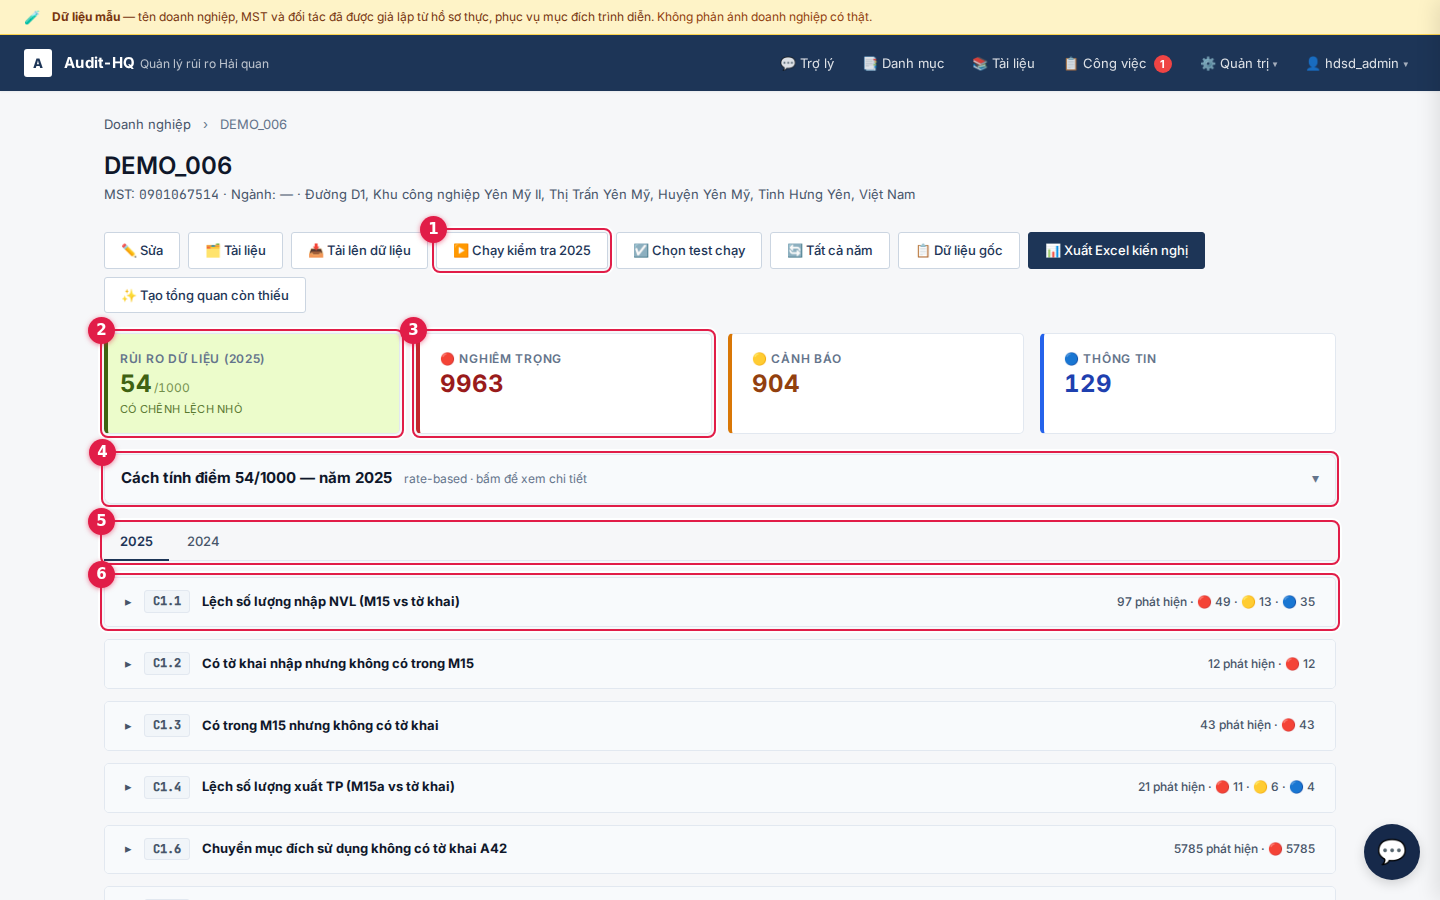
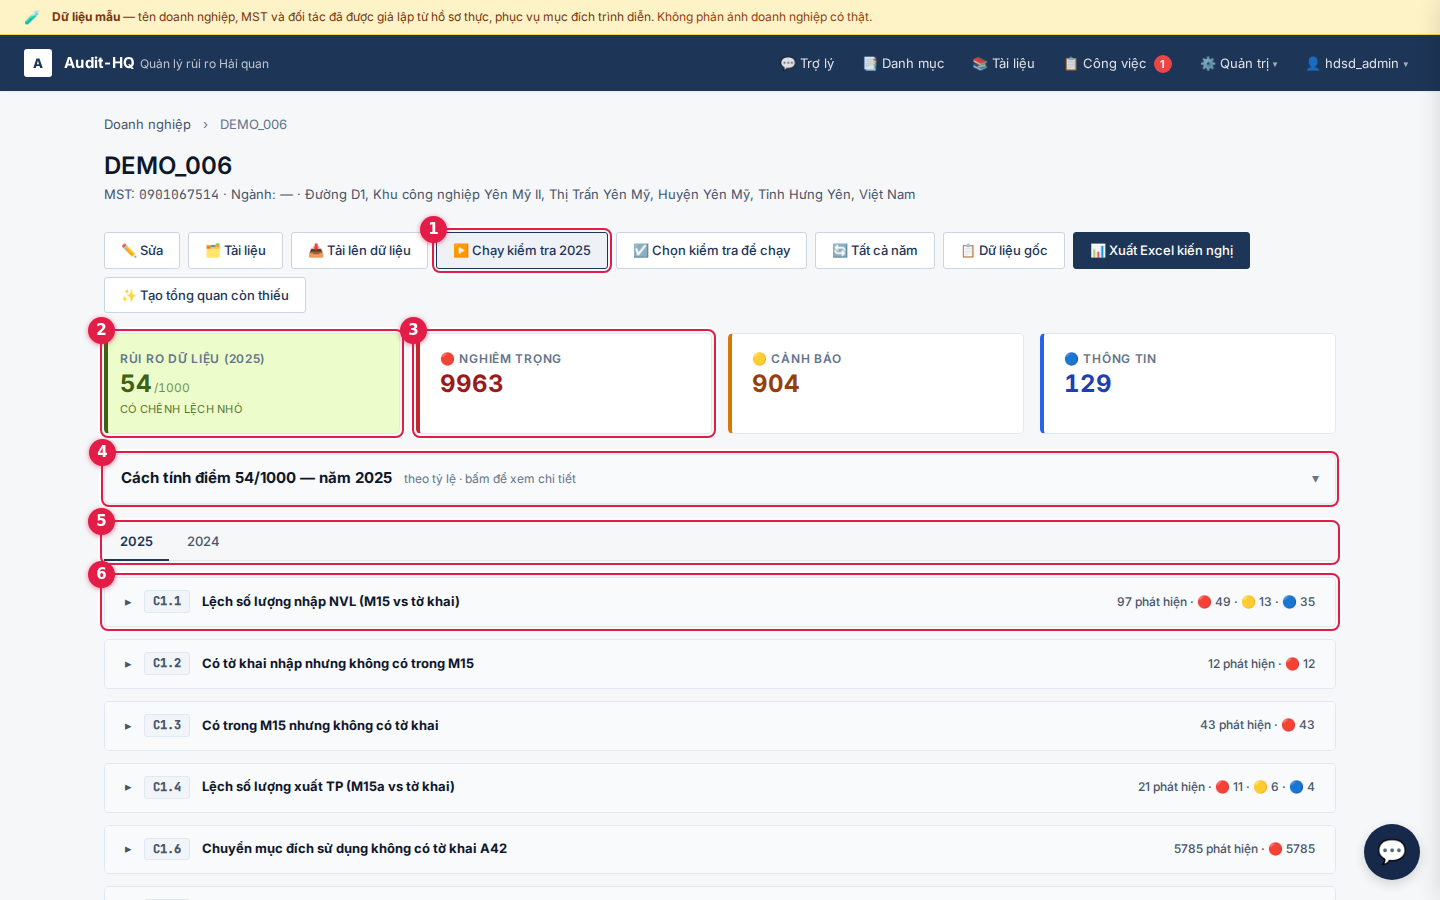
docs(guide): refresh screenshots and labels for the wording pass in #43
The manual branched off 648d6d5, before #43 landed on main, so its screenshots
and five quoted labels showed the old wording:

  Chọn test chạy        → Chọn kiểm tra để chạy
  Xuất test này         → Xuất kiểm tra này
  Cần đối chiếu số liệu → Có số không khớp bảng
  rate-based            → theo tỷ lệ

Re-captured all 36 screenshots against merged main and corrected the text.
Checked the other 28 labels the manual quotes — all still present on main.

Changed region(s): [[0.4688, 0.2489, 0.875, 0.3111], [0.2812, 0.5289, 0.4062, 0.56]]

diff --git a/app/static/docs/huong-dan/index.html b/app/static/docs/huong-dan/index.html
@@ -504,14 +504,14 @@
             <li>Tick các <strong>bài kiểm tra</strong> cần chạy. Cả hàng đều bấm được.</li>
             <li>Bấm nút chạy. Không tick bài nào thì <strong>chạy tất cả</strong>.</li>
           </ol></div>
-          <figure><span class="fig-tag">Chọn bài kiểm tra để chạy</span><img src="15-chon-test-de-chay.png" alt="Hộp thoại chọn bài kiểm tra"><figcaption>Mở bằng nút <b>☑ Chọn test chạy</b> trên hồ sơ doanh nghiệp.</figcaption></figure>
+          <figure><span class="fig-tag">Chọn bài kiểm tra để chạy</span><img src="15-chon-test-de-chay.png" alt="Hộp thoại chọn bài kiểm tra"><figcaption>Mở bằng nút <b>☑ Chọn kiểm tra để chạy</b> trên hồ sơ doanh nghiệp.</figcaption></figure>
         </div>
         <div class="tblwrap"><table class="tb">
           <thead><tr><th>Muốn chạy</th><th>Bấm nút</th></tr></thead>
           <tbody>
             <tr><td>Toàn bộ bài kiểm tra cho kỳ đang xem</td><td><b>▶ Chạy kiểm tra &lt;năm&gt;</b> trên hồ sơ doanh nghiệp</td></tr>
             <tr><td>Toàn bộ cho mọi kỳ có dữ liệu</td><td><b>🔄 Tất cả năm</b></td></tr>
-            <tr><td>Một số bài chọn trước</td><td><b>☑ Chọn test chạy</b></td></tr>
+            <tr><td>Một số bài chọn trước</td><td><b>☑ Chọn kiểm tra để chạy</b></td></tr>
             <tr><td>Đúng một bài</td><td><b>▶ Chạy lại &lt;mã bài&gt;</b> trong nhóm phát hiện của bài đó</td></tr>
           </tbody>
         </table></div>
@@ -560,7 +560,7 @@
         <div class="guide-head"><span class="gid">D1</span><h3>Hồ sơ doanh nghiệp</h3></div>
         <div class="guide-body">
           <div class="steps"><ol>
-            <li><strong>▶ Chạy kiểm tra &lt;năm&gt;</strong> — cùng thanh còn có Sửa, Tài liệu, Tải lên, Chọn test chạy, Tất cả năm, Dữ liệu gốc, Xuất Excel kiến nghị, Tạo tổng quan còn thiếu.</li>
+            <li><strong>▶ Chạy kiểm tra &lt;năm&gt;</strong> — cùng thanh còn có Sửa, Tài liệu, Tải lên, Chọn kiểm tra để chạy, Tất cả năm, Dữ liệu gốc, Xuất Excel kiến nghị, Tạo tổng quan còn thiếu.</li>
             <li><strong>Điểm rủi ro dữ liệu</strong> của kỳ đang chọn, kèm mức cảnh báo.</li>
             <li><strong>Số phát hiện theo mức độ</strong> — nghiêm trọng, cảnh báo, thông tin.</li>
             <li><strong>Khối cách tính điểm</strong> — bấm để mở chi tiết (mục D2).</li>
@@ -582,7 +582,7 @@
         <div class="note info"><svg class="ni"><use href="#i-info"/></svg><div>Quản trị viên chỉnh được các ngưỡng này (mục H3). Ngưỡng chỉ đổi cách <b>xếp mức</b>, không đổi <b>điểm</b>.</div></div>
       </article>
 
-      <article class="guide" id="d2" data-t="D2 cách tính điểm rate-based công thức kịch khung quy mô dữ liệu mẫu số">
+      <article class="guide" id="d2" data-t="D2 cách tính điểm theo tỷ lệ công thức kịch khung quy mô dữ liệu mẫu số">
         <div class="guide-head"><span class="gid">D2</span><h3>Cách tính điểm rủi ro</h3></div>
         <div class="guide-body">
           <div class="steps"><ol>
@@ -600,7 +600,7 @@
         <div class="guide-body">
           <div class="steps"><ol>
             <li><strong>Số phát hiện của nhóm</strong>, tách theo ba mức độ.</li>
-            <li><strong>▶ Chạy lại</strong> đúng bài kiểm tra này. Bên cạnh là <strong>📊 Xuất test này</strong> và <strong>✨ Tạo tổng quan</strong>.</li>
+            <li><strong>▶ Chạy lại</strong> đúng bài kiểm tra này. Bên cạnh là <strong>📊 Xuất kiểm tra này</strong> và <strong>✨ Tạo tổng quan</strong>.</li>
             <li><strong>Mã đối tượng</strong> — bấm để mở trang chi tiết mã hàng (mục E3).</li>
             <li><strong>Đổi trạng thái nhanh</strong> ngay tại bảng, không cần mở trang chi tiết.</li>
             <li><strong>Chi tiết →</strong> mở trang phát hiện kèm chứng cứ truy nguồn (mục E1).</li>
@@ -634,7 +634,7 @@
           <thead><tr><th>Nhãn</th><th>Nghĩa là</th><th>Cần làm gì</th></tr></thead>
           <tbody>
             <tr><td><b>⚠ Tổng quan đã cũ</b></td><td>Đã chạy lại kiểm tra hoặc nạp lại dữ liệu kể từ lúc sinh tổng quan.</td><td>Bấm <b>🔄 Tạo lại</b>.</td></tr>
-            <tr><td><b>⚠ Cần đối chiếu số liệu</b></td><td>Hậu kiểm thấy trong nhận định có con số không khớp bảng số liệu.</td><td>Đọc lại nhận định đó trước khi sử dụng.</td></tr>
+            <tr><td><b>⚠ Có số không khớp bảng</b></td><td>Hậu kiểm thấy trong nhận định có con số không khớp bảng số liệu.</td><td>Đọc lại nhận định đó trước khi sử dụng.</td></tr>
           </tbody>
         </table></div>
         <div class="note warn"><svg class="ni"><use href="#i-warn"/></svg><div>Số liệu dùng để lập hồ sơ phải lấy từ <b>bảng số liệu</b> và <b>trang chi tiết phát hiện</b>. Phần nhận định do AI viết chỉ để tham khảo, không phải kết luận vi phạm.</div></div>
@@ -721,7 +721,7 @@
           </ol></div>
           <figure><span class="fig-tag">Xuất Excel kiến nghị</span><img src="16-xuat-excel-kien-nghi.png" alt="Hộp thoại xuất Excel"><figcaption>Tệp gồm danh sách phát hiện kèm chứng cứ của kỳ đang chọn.</figcaption></figure>
         </div>
-        <div class="note info"><svg class="ni"><use href="#i-info"/></svg><div>Trong từng nhóm phát hiện còn có nút <b>📊 Xuất test này</b> để xuất riêng một bài. Mỗi lượt kết xuất đều được ghi vào nhật ký truy cập.</div></div>
+        <div class="note info"><svg class="ni"><use href="#i-info"/></svg><div>Trong từng nhóm phát hiện còn có nút <b>📊 Xuất kiểm tra này</b> để xuất riêng một bài. Mỗi lượt kết xuất đều được ghi vào nhật ký truy cập.</div></div>
       </article>
 
       <article class="guide" id="e5" data-t="E5 tra cứu dữ liệu gốc tầng 1 duyệt bảng m15 m15a m16 bcct">
